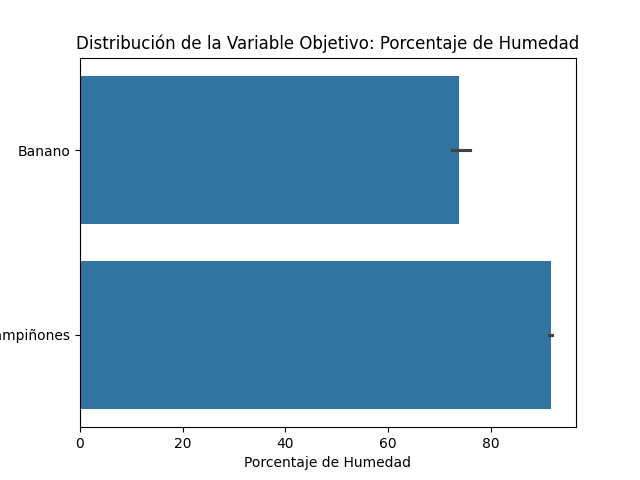
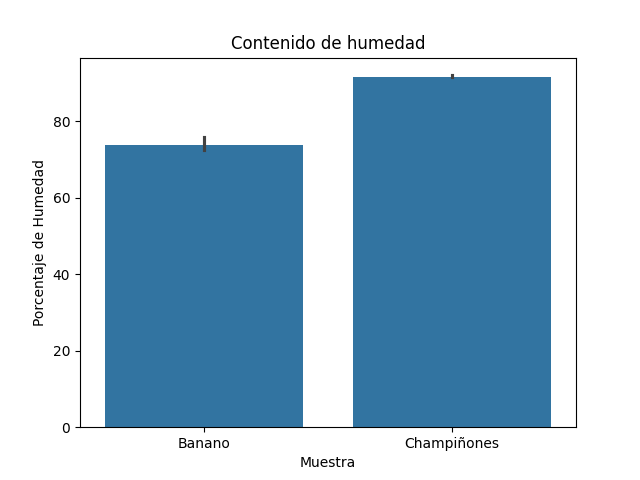
Still in progress

Changed region(s): [[0.0, 0.1562, 0.875, 1.0], [0.125, 0.0625, 0.9062, 0.125], [0.0938, 0.875, 0.125, 0.9062]]

diff --git a/scripts/analizador.py b/scripts/analizador.py
@@ -1,11 +1,13 @@
 # librerias
 import os
-
-import pandas as pd
+from statsmodels.stats.multicomp import pairwise_tukeyhsd
+from scipy import stats
+import pandas as pd 
 import matplotlib.pyplot as plt
 import seaborn as sns
 import numpy as np
 import pathlib 
+import scikit_posthocs as sp
 
 # cargar datos
 file_path = pathlib.Path("data/database.csv")
@@ -17,9 +19,81 @@ print(data.describe())
 # verificar valores nulos
 print(data.isnull().sum())
 # distribución de la variable objetivo
-sns.barplot(x='porcentaje_humedad', y='muestra', data=data)
-plt.title('Distribución de la Variable Objetivo: Porcentaje de Humedad')
-plt.xlabel('Porcentaje de Humedad')
-plt.ylabel('Frecuencia')
+sns.barplot(x='muestra', y='porcentaje_humedad', data=data)
+plt.title('Contenido de humedad')
+plt.xlabel('Muestra')
+plt.ylabel('Porcentaje de Humedad')
 
 plt.savefig('data/figuras/distribucion_variable_objetivo.png')
+
+# análisis de varianza (ANOVA)
+groups = [group["porcentaje_humedad"].values for name, group in data.groupby("grupo")]
+f_statistic, p_value = stats.f_oneway(*groups)
+print(f"ANOVA F-statistic: {f_statistic}, p-value: {p_value}")
+
+# prueba de Tukey para comparaciones múltiples
+if p_value < 0.05:
+    print("\nRunning Tukey test...\n")
+    
+    tukey = pairwise_tukeyhsd(
+        endog=data["porcentaje_humedad"],
+        groups=data["grupo"],
+        alpha=0.05
+    )
+    
+    print(tukey)
+    tukey.plot_simultaneous()
+    plt.title('Tukey HSD Test')
+    plt.xlabel('Mean Difference')
+    plt.savefig('data/figuras/tukey_test.png')
+else:
+    print("No significant differences found among groups.")
+
+# gráfico de cajas para visualizar las diferencias entre grupos
+
+stats = data.groupby("grupo")["porcentaje_humedad"].agg(["mean", "std"])
+
+# estadísticas para asignar letras
+groups = stats.index
+means = stats["mean"]
+stds = stats["std"]
+
+# Tukey
+tukey = pairwise_tukeyhsd(data["porcentaje_humedad"], data["grupo"], alpha=0.05)
+print(tukey)
+
+# Check significance
+reject = tukey.reject[0]  # True or False
+
+# Assign letters
+if reject:
+    letters = ['a', 'b']  # different
+else:
+    letters = ['a', 'a']  # same
+
+# Plot
+plt.figure()
+
+bars = plt.bar(
+    groups,
+    means,
+    yerr=stds,
+    capsize=6
+)
+
+# Colors
+colors = ["#1f77b4", "orange"]
+for bar, color in zip(bars, colors):
+    bar.set_color(color)
+
+# Add Tukey letters above bars
+for i, (mean, std, letter) in enumerate(zip(means, stds, letters)):
+    plt.text(i, mean + std + 1, letter, ha='center', fontsize=14, fontweight='bold')
+
+plt.title('Contenido de Humedad por Grupo')
+plt.xlabel('Grupo')
+plt.ylabel('Porcentaje de Humedad')
+
+plt.tight_layout()
+plt.savefig('data/figuras/boxplot_letras.png', dpi=600)
+
